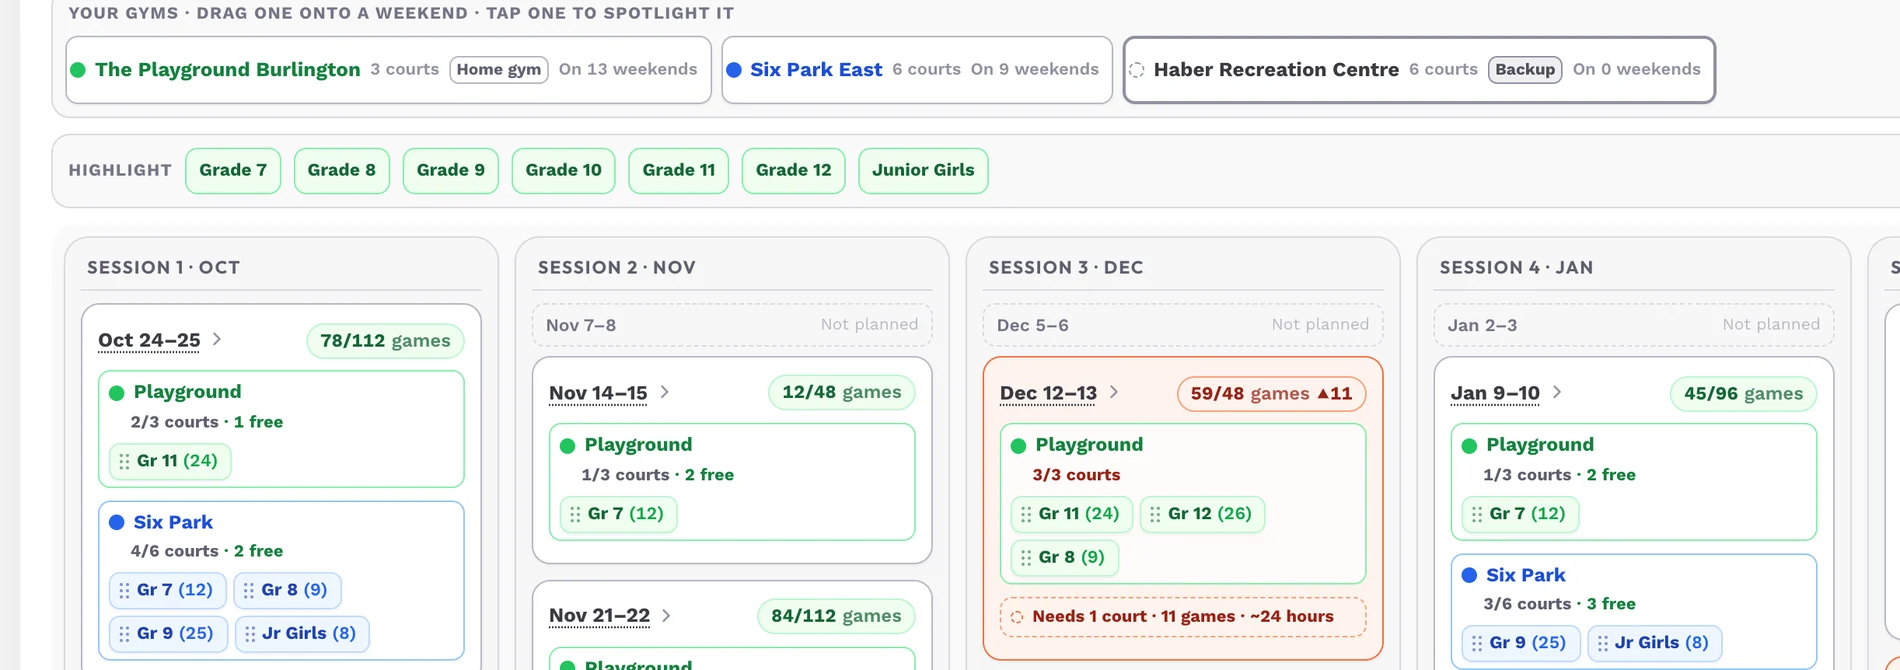
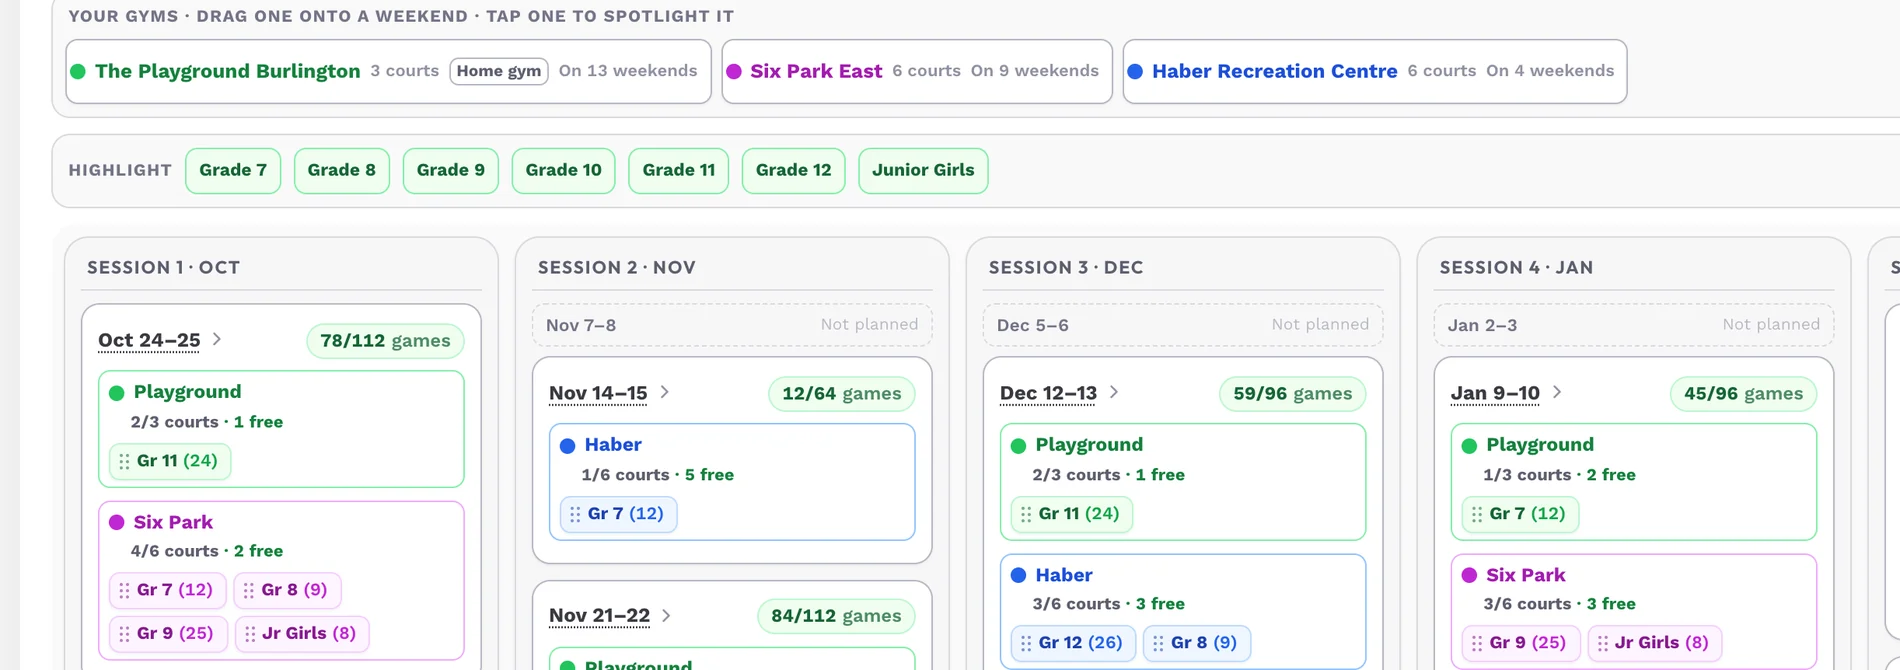
the demo world must be at least as good as the product, not worse
Two things on the deck were wrong, and both came from the seeder, not the
capture.

FOUR RED WEEKENDS ON THE BOARD. Six Park is released on the six weekends the
NJC/NSC circuits hold it, which left those dates with nothing but the
Playground's three courts — 48 slots against grades needing far more, so the
board drew them over. Four red weekends is not a plan any league would
publish, and it is not the story either: the owner's own scheduling demo
(docs/roadmap/season-story-numbers.md, the 2026-08-16 deltas) shows ONE
weekend under pressure and then the fix, "no ambush; the tension lives on the
board".

So the league now does what a league does when its building is taken: it
books the backup. Haber joins exactly the weekends Six Park left and no
others, which is what makes it read as a rental rather than a third home. The
board is 13 weekends, 0 over, 0 tight, and the blue Haber blocks sit visibly
on the dates the fuchsia ones are missing.

BURDEN SCORES OF 75, AND TEAMS SHORT OF GAMES. Stage 4 was committing its
schedule with the v1 generateSchedule. The product's own button is not that:
api/seasons/[id]/plans/[planId]/generate calls solveSeasonV2 + applyProposal,
the v2 engine with the burden ledger. v1 left 23 teams under the 10-game
guarantee and handed out back-to-backs, so the seeded world scored far worse
than anything the owner produces by hand — which is exactly what he reported.

Stage 4 now runs the same solver the owner's own button runs, and refuses
[…]

diff --git a/scripts/seed-journey.ts b/scripts/seed-journey.ts
@@ -971,6 +971,65 @@ export async function seedJourneyStage3() {
     })`
   )
 
+  /**
+   * THE BACKUP GYM, ON THE WEEKENDS THE MAIN ONE IS GONE.
+   *
+   * Six Park is released on the six weekends the NJC/NSC circuits hold it,
+   * which leaves those dates with nothing but the Playground's three courts —
+   * 48 slots against grades that need far more. The board drew them red, and
+   * four red weekends is not a plan a league would ever publish. It is also
+   * not the story: the owner's own scheduling demo shows ONE weekend under
+   * pressure and then the fix (docs/roadmap/season-story-numbers.md, the
+   * 2026-08-16 deltas — "no ambush; the tension lives on the board").
+   *
+   * So the league does what a league does when its building is taken: it books
+   * the backup. Haber joins exactly the weekends Six Park left, and nothing
+   * else — it stays off every other date, which is what makes it visibly a
+   * rental rather than a third home.
+   */
+  const haber = await p.venue.findFirst({
+    where: { name: "Haber Recreation Centre" },
+    select: { id: true },
+  })
+  let haberWeekends = 0
+  if (haber && njc.detached.length > 0) {
+    const haberCourts = await p.court.findMany({
+      where: { venueId: haber.id },
+      orderBy: { displayOrder: "asc" },
+      take: 6,
+      select: { id: true },
+    })
+    for (const sat of njc.detached) {
+      const satDate = new Date(`${sat}T00:00:00Z`)
+      const monday = new Date(satDate.getTime() + days(2))
+      const dayRows = await p.seasonSessionDay.findMany({
+        where: { session: { seasonId: season.id }, date: { gte: satDate, lt: monday } },
+        select: { id: true, dayVenues: { select: { venueId: true } } },
+      })
+      for (const day of dayRows) {
+        if (day.dayVenues.some((dv: any) => dv.venueId === haber.id)) continue
+        const dayVenue = await p.seasonSessionDayVenue.create({
+          data: {
+            dayId: day.id,
+            venueId: haber.id,
+            startTime: "10:00",
+            endTime: "22:00",
+            bookingStatus: "confirmed",
+          },
+          select: { id: true },
+        })
+        let order = 0
+        for (const c of haberCourts) {
+          await p.seasonSessionDayVenueCourt.create({
+            data: { dayVenueId: dayVenue.id, courtId: c.id, order: order++ },
+          })
+        }
+      }
+      haberWeekends++
+    }
+    console.log(`✓ Haber booked on the ${haberWeekends} weekends Six Park was released`)
+  }
+
   // Now that the weekends know which buildings they actually have, place each
   // grade in one of them. This is what the planner board photographs.
   const board = await placeGradesInGyms(season.id)
@@ -1033,7 +1092,7 @@ export async function seedJourneyStage3() {
 
   await writeDemoState("nph-pitch-journey", 3)
   console.log(
-    `✓ journey stage 3: ${updated.count} approvals finalized · Playground (home) + Six Park (pool) full strength 10:00-22:00 · Haber in the pool on no weekend · ${board.placements} grade placements on ${board.weekends} weekends · requests + withdrawal staged`
+    `✓ journey stage 3: ${updated.count} approvals finalized · Playground (home) + Six Park (pool) full strength 10:00-22:00 · Haber booked on ${haberWeekends} released weekends · ${board.placements} grade placements on ${board.weekends} weekends · requests + withdrawal staged`
   )
 }
 
@@ -1070,35 +1129,45 @@ export async function seedJourneyStage4() {
         data: { dayVenueId: dv.id, courtId: court6.id, order: 5 },
       })
     }
-    const { loadSchedulerInput } = await import("../apps/web/src/lib/scheduler/load")
-    const { generateSchedule } = await import("../apps/web/src/lib/scheduler/generate")
-    const { input } = await loadSchedulerInput(season.id)
-    if (!input) throw new Error("stage 4: cannot load scheduler input")
-    const result = generateSchedule(input)
-    for (const g of result.games) {
-      await p.game.create({
-        data: {
-          seasonId: season.id,
-          sessionId: g.sessionId,
-          dayVenueId: g.dayVenueId,
-          homeTeamId: g.homeTeamId,
-          awayTeamId: g.awayTeamId,
-          venueId: g.venueId,
-          courtId: g.courtId,
-          scheduledAt: new Date(g.scheduledAt),
-          duration: g.duration,
-          status: "SCHEDULED",
-          phase: "REGULAR",
-          publishedAt: new Date(),
-        },
-      })
+    /**
+     * THE SAME SOLVER THE OWNER'S OWN BUTTON RUNS. "Generate" on the plan
+     * wizard is api/seasons/[id]/plans/[planId]/generate, and it calls
+     * solveSeasonV2 + applyProposal — the v2 engine with the burden ledger,
+     * which spreads a team's games, keeps them out of back-to-backs and off
+     * five-hour waits, and fills every team's game count.
+     *
+     * This used to call the v1 generateSchedule, and the difference is the
+     * whole fairness table: v1 left 23 teams under the 10-game guarantee and
+     * handed out back-to-backs, so the seeded world scored far worse than
+     * anything the owner produces by hand. A demo world must be at least as
+     * good as the product, never worse.
+     */
+    const { solveSeasonV2, applyProposal } = await import("../apps/web/src/lib/scheduler-v2")
+    const solved = await solveSeasonV2(season.id)
+    if (solved.errors.length > 0) {
+      throw new Error(`stage 4: solver refused — ${solved.errors.join(" · ")}`)
     }
+    const blocks = solved.findings.filter((f: any) => f.severity === "BLOCK")
+    if (blocks.length > 0 || !solved.proposal) {
+      throw new Error(
+        `stage 4: solver blocked — ${blocks.map((b: any) => b.message).join(" · ") || "no proposal"}`
+      )
+    }
+    await applyProposal(season.id, solved.proposal)
+    // Seeded games are the live demo world, not drafts.
+    await p.game.updateMany({
+      where: { seasonId: season.id, phase: "REGULAR", publishedAt: null },
+      data: { publishedAt: new Date() },
+    })
     games = await p.game.findMany({
       where: { seasonId: season.id, phase: "REGULAR" },
       select: { id: true, homeTeamId: true, awayTeamId: true, scheduledAt: true },
       orderBy: { scheduledAt: "asc" },
     })
-    console.log(`  · committed ${games.length} games (Court 6 added + schedule generated)`)
+    console.log(
+      `  · committed ${games.length} games via scheduler-v2 (Court 6 added) · ` +
+        `back-to-backs ${solved.proposal.stats.backToBacks ?? "?"}`
+    )
   }
 
   // Complete the first two weekends with scores + player stat lines.

diff --git a/apps/web/src/app/deck/_deck/shots-version.ts b/apps/web/src/app/deck/_deck/shots-version.ts
@@ -7,4 +7,4 @@
  *
  * Do not edit by hand.
  */
-export const SHOTS_VERSION = "20260820-2311"
+export const SHOTS_VERSION = "20260820-2325"
